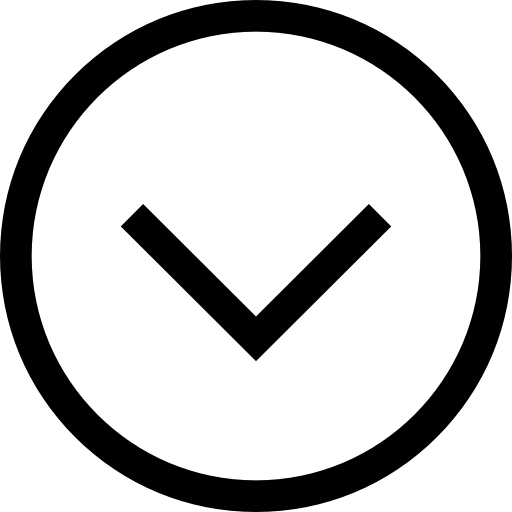
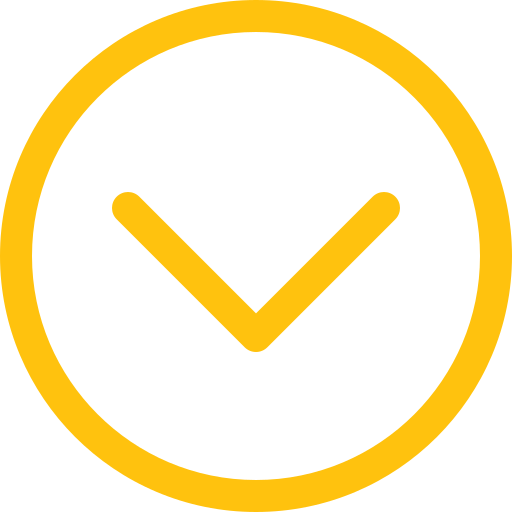
97% done

Changed region(s): [[0.0, 0.0, 1.0, 1.0], [0.2188, 0.375, 0.7812, 0.7188]]

diff --git a/index.html b/index.html
@@ -4,6 +4,7 @@
     <meta charset="UTF-8">
     <meta name="viewport" content="width=device-width, initial-scale=1.0">
     <title>Portfolio | Dine18</title>
+    <link rel="icon" type="image/x-icon" href="./assets/favicon.png">
     <link rel="stylesheet" href="style.css">
     <link rel="stylesheet" href="mediaqueries.css">
 </head>
@@ -58,9 +59,9 @@
             </div>
             <div id="socials-container">
                 <img src="./assets/linkedin.png" alt="My LinkedIn profile" class="icon icon1" 
-                onclick="location.href='https://linkedin.com/' ">
+                onclick="location.href='https://www.linkedin.com/in/dinesh1817/' ">
                 <img src="./assets/github.png" alt="My Github profile" class="icon icon2" 
-                onclick="location.href='https://github.com/' ">
+                onclick="location.href='https://github.com/dine1817/' ">
             </div>
         </div>
         <div class="section__pic-container">
@@ -127,7 +128,7 @@
                     a strong foundation in both frontend and backend technologies. <br></p>
                     <p><span>#</span>Explore my projects to get a glimpse of my work, and 
                     feel free to reach out if you have any insights, opportunities, or 
-                    advice to share. Connect with me on<a href="">#LinkedIn.</a>
+                    advice to share. Connect with me on<a href="https://www.linkedin.com/in/dinesh1817/">#LinkedIn.</a>
                     </p>
                 </div>
             </div>
@@ -266,7 +267,7 @@
                         onclick="location.href='https://github.com/dine1817/weatherForecast.git'">
                             Github
                         </button>
-                        <button class="btn btn-color2 project-btn"
+                        <button class="btn btn-color4 project-btn"
                         onclick="location.href='https://dine1817.github.io/weatherForecast/'">
                             Live Demo
                         </button>
@@ -283,7 +284,7 @@
                         onclick="location.href='https://github.com/dine1817/weatherForecast.git'">
                             Github
                         </button>
-                        <button class="btn btn-color2 project-btn"
+                        <button class="btn btn-color4 project-btn"
                         onclick="location.href='https://dine1817.github.io/weatherForecast/'">
                             Live Demo
                         </button>
@@ -300,7 +301,7 @@
                         onclick="location.href='https://github.com/dine1817/weatherForecast.git'">
                             Github
                         </button>
-                        <button class="btn btn-color2 project-btn"
+                        <button class="btn btn-color4 project-btn"
                         onclick="location.href='https://dine1817.github.io/weatherForecast/'">
                             Live Demo
                         </button>
@@ -327,7 +328,7 @@
             <div class="contact-info-container">
                 <img src="./assets/linkedin.png" alt="Linkedin icon"
                 class="icon icon8 contact-icon">
-                <p><a href="https://linkedin.com">
+                <p><a href="https://www.linkedin.com/in/dinesh1817/">
                     LinkedIn
                 </a></p>
             </div>
@@ -345,7 +346,7 @@
                 </ul>
             </div>
         </nav>
-        <p>Copyright &#169; 2023 Dinesh K. All Rights Reserved.</p>
+        <p>Copyright &#169; 2024 Dinesh K. All Rights Reserved.</p>
     </footer>
     
     <script src="index.js"></script>

diff --git a/style.css b/style.css
@@ -212,24 +212,11 @@ section{
     cursor: pointer;
 }
 .icon1{
-    height: 2.5rem;
-    background-color: #FFC20E;
-    border: 0.1rem solid #FFC20E;
-    border-radius: 50%;
+    height: 2.7rem;
 }
 .icon2{
-    height: 2.5rem;
-    background-color: #a1c0e9;
-    border: 0.1rem solid #a1c0e9;
+    height: 2.725rem;
     border-radius: 50%;
-}
-.icon1:hover{
-    background-color: #05244d;
-    border: #FFC20E 0.1rem solid;
-}
-.icon2:hover{
-    background-color: #05244d;
-    border: #a1c0e9 0.1rem solid;
 }
 /* Buttons */
 .btn-container{
@@ -308,9 +295,6 @@ section{
 }
 .icon5{
     height: 3.75rem;
-    background-color: #FFC20E;
-    border: 0.1rem solid #FFC20E;
-    border-radius: 50%;
 }
 .details-container{
     padding: 1.2rem;
@@ -423,6 +407,18 @@ article .icon{
     background-color: #05244d;
     color: #FFC20E;
 }
+.btn-color4{
+    cursor: pointer;
+    border: none;
+    border: 0.1rem  solid #a1c0e9;
+    background-color: #05244d;
+    color: #a1c0e9;
+}
+.btn-color4:hover{
+    background-color: #FFC20E;
+    color: #05244d;
+    border-color: #05244d;
+}
 /* ******************************************** */
 /* Contact */
 
@@ -464,11 +460,14 @@ article .icon{
 .contact-icon{
     cursor: default;
 }
-.icon8,.icon7{
+.icon7{
     height: 2.5rem;
     background-color: #FFC20E;
     border: 0.1rem solid #FFC20E;
     border-radius: 50%;
+}
+.icon8{
+    height: 2.5rem;
 }
 
 /* **************************** */
@@ -510,7 +509,22 @@ body{
 }
 
 
-
+/* Scroll Bar */
+::-webkit-scrollbar{
+    width: 0.5rem;
+}
+::-webkit-scrollbar-track{
+    background: none;
+}
+::-webkit-scrollbar-thumb{
+    background: #a1c0e97e;
+    border-radius: 15px;
+    
+}
+::-webkit-scrollbar-thumb:hover{
+    background: #ffc30ef0;
+    transition: all 0.3 ease-in-out;
+}
 
 
 

diff --git a/mediaqueries.css b/mediaqueries.css
@@ -22,6 +22,9 @@
     .hamburger-icon.open span:last-child{
         transform: rotate(-45deg) translate(12px, -4px);
     }
+    .details-container{
+        padding: 0.5rem;
+    }
 }
 @media screen  and (max-width: 400px){
     #logoImage > img{
@@ -49,6 +52,14 @@
     }
     .hamburger-icon.open span:last-child{
         transform: rotate(-45deg) translate(7px, -6px);
+    }
+}
+@media screen  and (max-width: 370px){
+    .contact-info-container > p > a{
+        font-size: 0.75rem;
+    }
+    .contact-icon{
+        height: 2.5rem;;
     }
 }
 @media screen  and (max-width: 300px){
@@ -147,7 +158,7 @@
         padding: 11px 1px;
     }
     .contact-info-container{
-        margin: 0;
+        margin: 0.3rem;
     }
     .contact-info-container p, .nav-links li a{
         font-size: 1rem;
